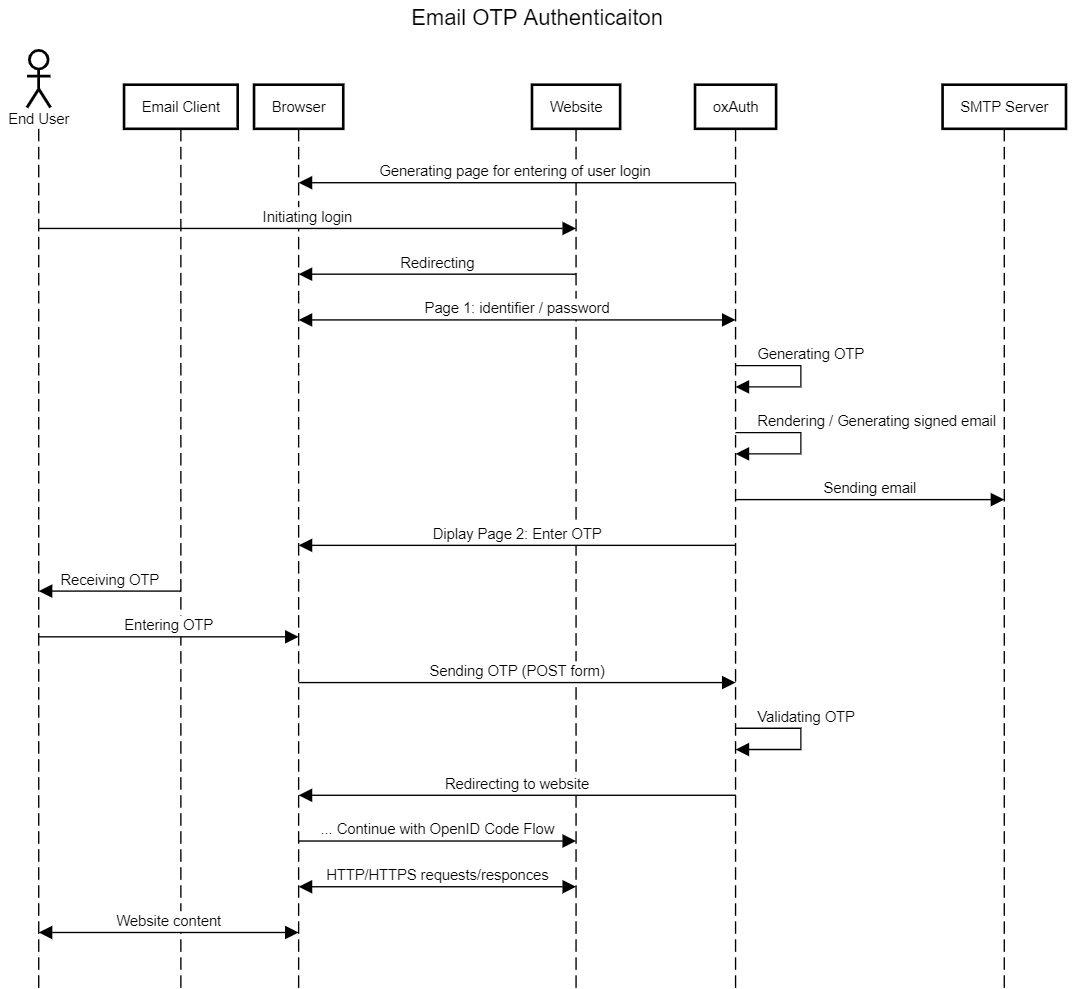
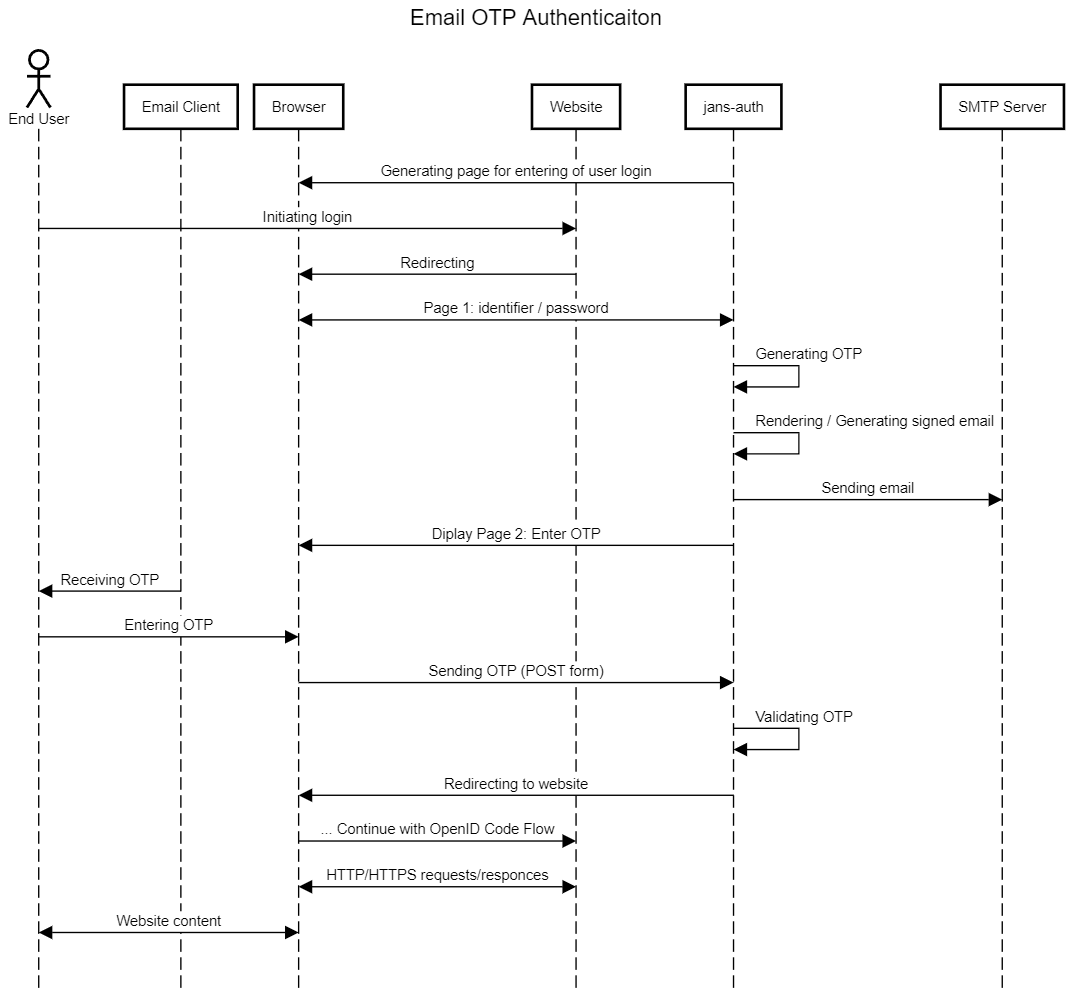
docs: README.md has been updated; docs: email_2fa sequence diagram has been updated;

diff --git a/jans/README.md b/jans/README.md
@@ -899,7 +899,7 @@ actor End User
 participant Email Client
 participant Browser
 participant Website
-participant Janssen
+participant jans-auth
 participant SMTP Server
 
 jans-auth->Browser: Generating page for entering of user login
